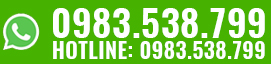
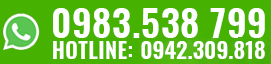
almost ready to deploy

diff --git a/resources/views/back-end/components/header.blade.php b/resources/views/back-end/components/header.blade.php
@@ -10,7 +10,7 @@
            <div class="flex flex-1 md:w-1/3 justify-center md:justify-start text-white px-2">
                <span class="relative w-full">
                    <form id="searchIdBanking" method="POST" action="{{ route('order.search') }}">
-                       @csrf 
+                       @csrf
                        @method('POST')
                        <input type="search" placeholder="Search" name="search"
                            class="w-full bg-gray-900 text-white transition border border-transparent focus:outline-none focus:border-gray-400 rounded py-3 px-2 pl-10 appearance-none leading-normal">
@@ -45,9 +45,12 @@
                                    class="p-2 hover:bg-gray-800 text-white text-sm no-underline hover:no-underline block"><i
                                        class="fa fa-user fa-fw"></i> Admin</a>
                                <div class="border border-gray-800"></div>
-                               <a href="{{ route('logout') }}"
-                                   class="p-2 hover:bg-gray-800 text-white text-sm no-underline hover:no-underline block"><i
-                                       class="fas fa-sign-out-alt fa-fw"></i> Log Out</a>
+                               <form action="{{ route('logout') }}" method="POST">
+                                   @csrf
+                                   <button
+                                       class="p-2 hover:bg-gray-800 text-white text-sm no-underline hover:no-underline block"><i
+                                           class="fas fa-sign-out-alt fa-fw"></i> Log Out</button>
+                               </form>
                            </div>
                        </div>
                    </li>

diff --git a/resources/views/front-end/components/footer.blade.php b/resources/views/front-end/components/footer.blade.php
@@ -41,13 +41,13 @@
                 <ul class="list-none footer-links">
                     <li class="mb-2">
                         <a href="#"
-                            class="border-b border-solid border-transparent hover:border-yellow-500 hover:text-yellow-500">Tổng
-                            đài hỗ trợ</a>
+                            class="border-b border-solid border-transparent hover:border-yellow-500 hover:text-yellow-500">Hotline1:
+                            0983.538.799</a>
                     </li>
                     <li class="mb-2">
                         <a href="#"
-                            class="border-b border-solid border-transparent hover:border-yellow-500 hover:text-yellow-500">Hotline:
-                            0983.538.799</a>
+                            class="border-b border-solid border-transparent hover:border-yellow-500 hover:text-yellow-500">Hotline2:
+                            0942.309.818</a>
                     </li>
                     <li class="mb-2">
                         <a href="#"
@@ -74,7 +74,7 @@
                         class="w-8 h-8 border border-2 border-gray-400 rounded-full text-center py-0.5 ml-2 text-white hover:text-white hover:bg-red-400 hover:border-red-400">
                         <i class="fab fa-youtube"></i>
                     </a>
-                    <a href=""
+                    <a href="#"
                         class="w-8 h-8 border border-2 border-gray-400 rounded-full text-center py-0.5 ml-2 text-white hover:text-white hover:bg-red-600 hover:border-red-600">
                         <i class="fab fa-google-plus-g"></i>
                     </a>

diff --git a/resources/views/front-end/contents/paymentMethod.blade.php b/resources/views/front-end/contents/paymentMethod.blade.php
@@ -51,7 +51,7 @@
                                 <i>{{ $bank->bankNumber }}</i>
                             </span>
                         </div>
-                        <div class="text-gray-500">{{ $bank->department }}</div>
+                        <div class="text-gray-500">Chi nhánh: {{ $bank->department }}</div>
                     </div>
                     @endforeach
                 </div>

diff --git a/routes/web.php b/routes/web.php
@@ -71,7 +71,7 @@ Route::get('/login', [RegisterController::class, 'login'])->name('login');
 Route::post('/login', [RegisterController::class, 'customerLogin']);
 
 //logout
-Route::get('/logout', [RegisterController::class, 'logout'])->name('logout');
+Route::post('/logout', [RegisterController::class, 'logout'])->name('logout');
 
 Route::prefix('admin')->group(function () {
     //home

diff --git a/resources/views/front-end/app.blade.php b/resources/views/front-end/app.blade.php
@@ -18,7 +18,7 @@
     <script src="https://ajax.googleapis.com/ajax/libs/jquery/3.5.1/jquery.min.js"></script>
     <script src="https://code.jquery.com/jquery-3.6.0.js"></script>
     <script src="https://code.jquery.com/ui/1.13.0/jquery-ui.js"></script>
-    <title>Document</title>
+    <title>Bách Diệp Trà Sen</title>
 </head>
 <body>
     @include('front-end.components.header')

diff --git a/resources/views/front-end/contents/contactMap.blade.php b/resources/views/front-end/contents/contactMap.blade.php
@@ -14,7 +14,7 @@
             <div class="text-center p-2">
                 Điện thoại:
                 <span  class="text-green-primary font-semibold">
-                    0983.538.799
+                    0983.538.799 <span class="text-black">hoặc</span> 0942.309.818
                 </span>
             </div>
             <div class="text-center p-2 pb-5">

diff --git a/resources/views/front-end/contents/payForm.blade.php b/resources/views/front-end/contents/payForm.blade.php
@@ -101,7 +101,7 @@
                         <i>{{ $bank->bankNumber }}</i>
                     </span>
                 </div>
-                <div class="text-gray-500">{{ $bank->department }}</div>
+                <div class="text-gray-500">Chi nhánh: {{ $bank->department }}</div>
             </div>
         @endforeach
     </div>
